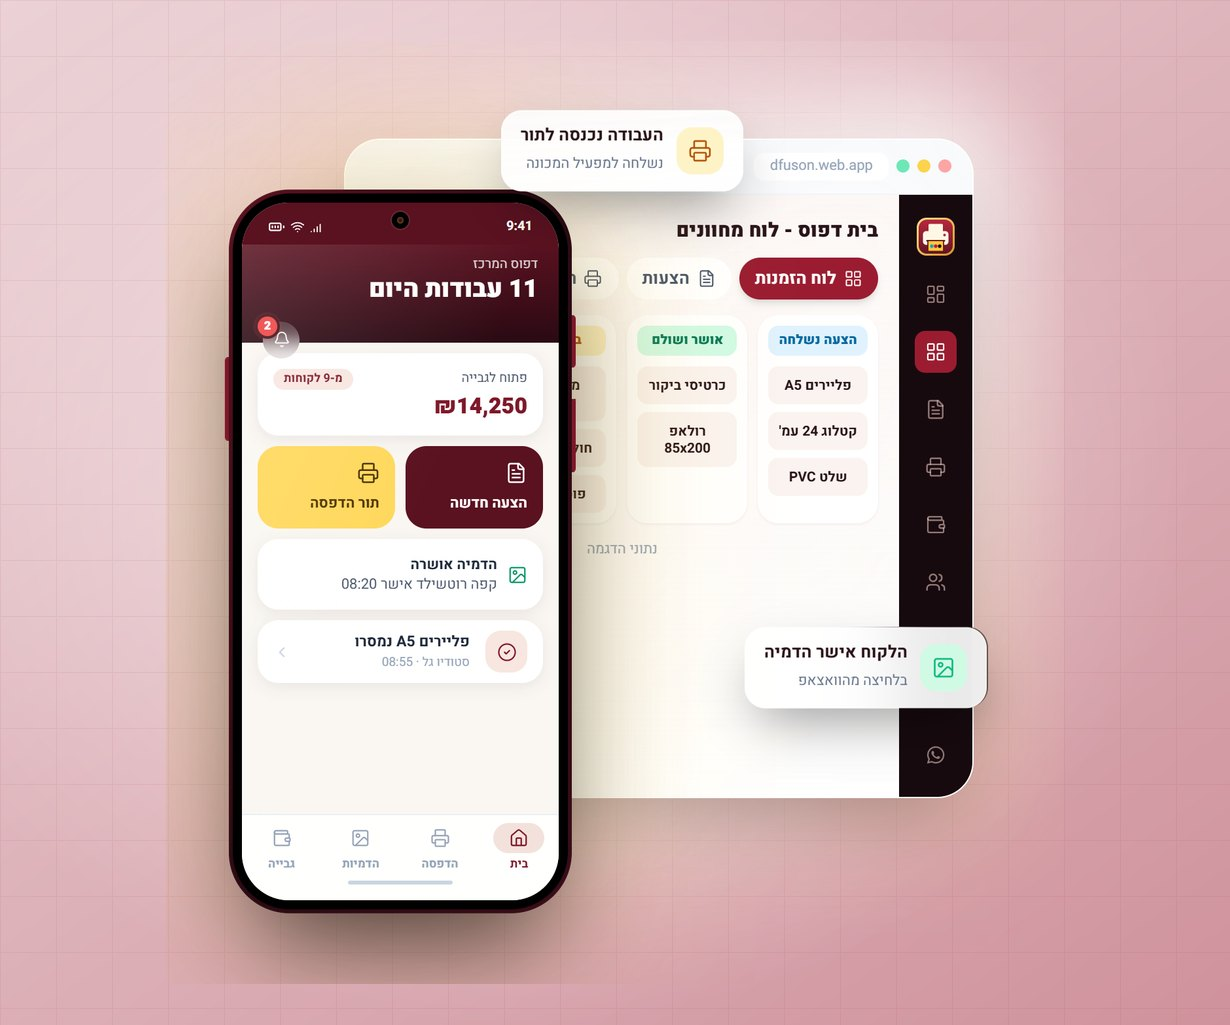
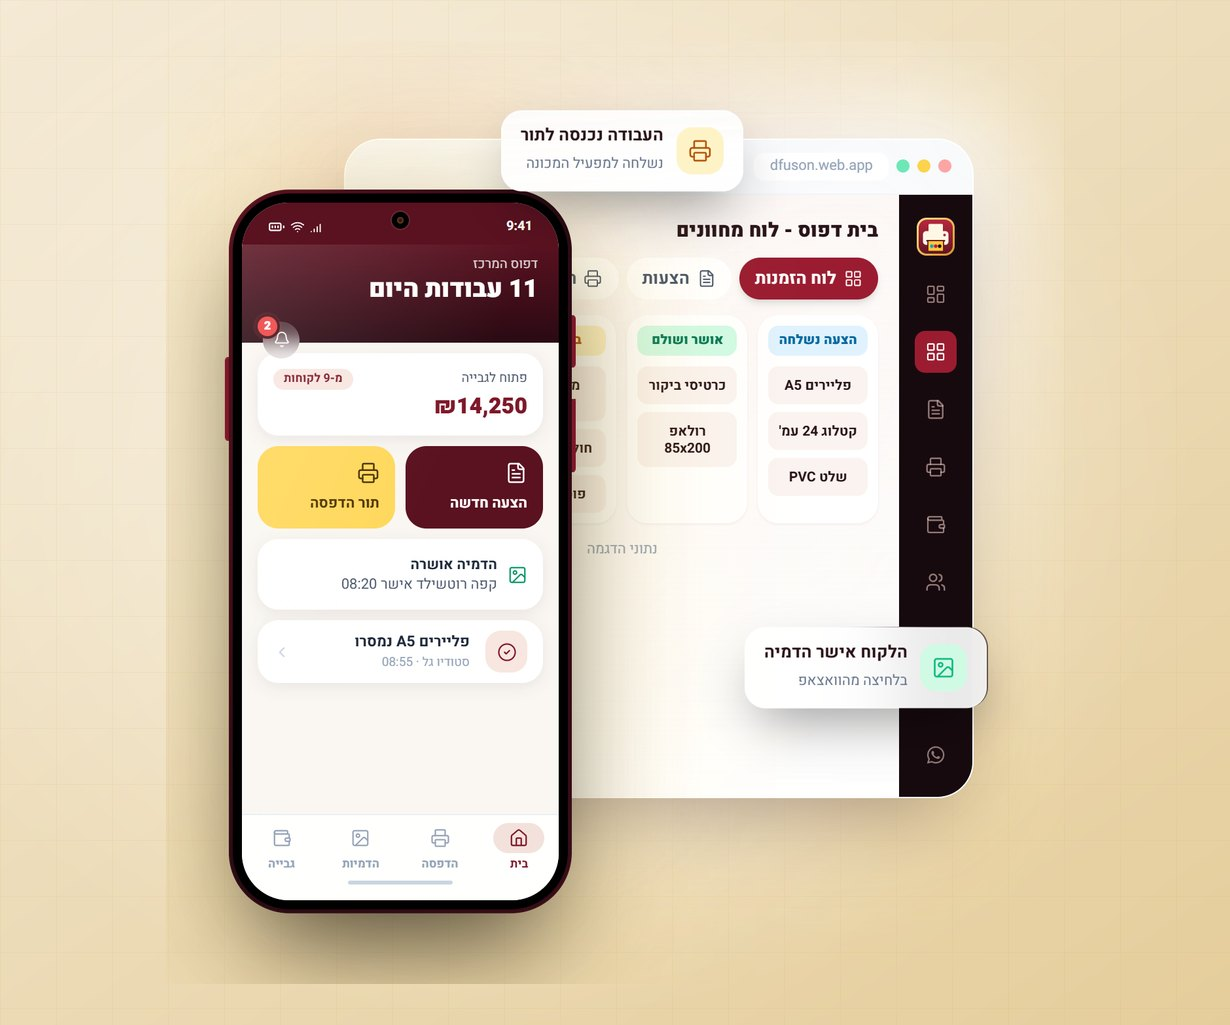
Dfuson card: warm background

diff --git a/index.html b/index.html
@@ -1044,7 +1044,7 @@ body.en .foot-phone { direction:ltr; }
       <!-- 13 Print Shop -->
       <div class="proj rev d3">
         <div class="proj-img">
-          <a class="proj-img-link" href="/dfuson/" target="_blank" rel="noopener" tabindex="-1" aria-hidden="true"><img src="screenshots/sys-dfuson.jpg?v=1" alt="דפוסון: המערכת במחשב ובנייד" width="1230" height="1025" loading="lazy"></a>
+          <a class="proj-img-link" href="/dfuson/" target="_blank" rel="noopener" tabindex="-1" aria-hidden="true"><img src="screenshots/sys-dfuson.jpg?v=2" alt="דפוסון: המערכת במחשב ובנייד" width="1230" height="1025" loading="lazy"></a>
         </div>
         <div class="proj-body">
           <h3 class="proj-title" data-en="Dfuson - Print Shop Management">דפוסון - מערכת לניהול בתי דפוס</h3>
